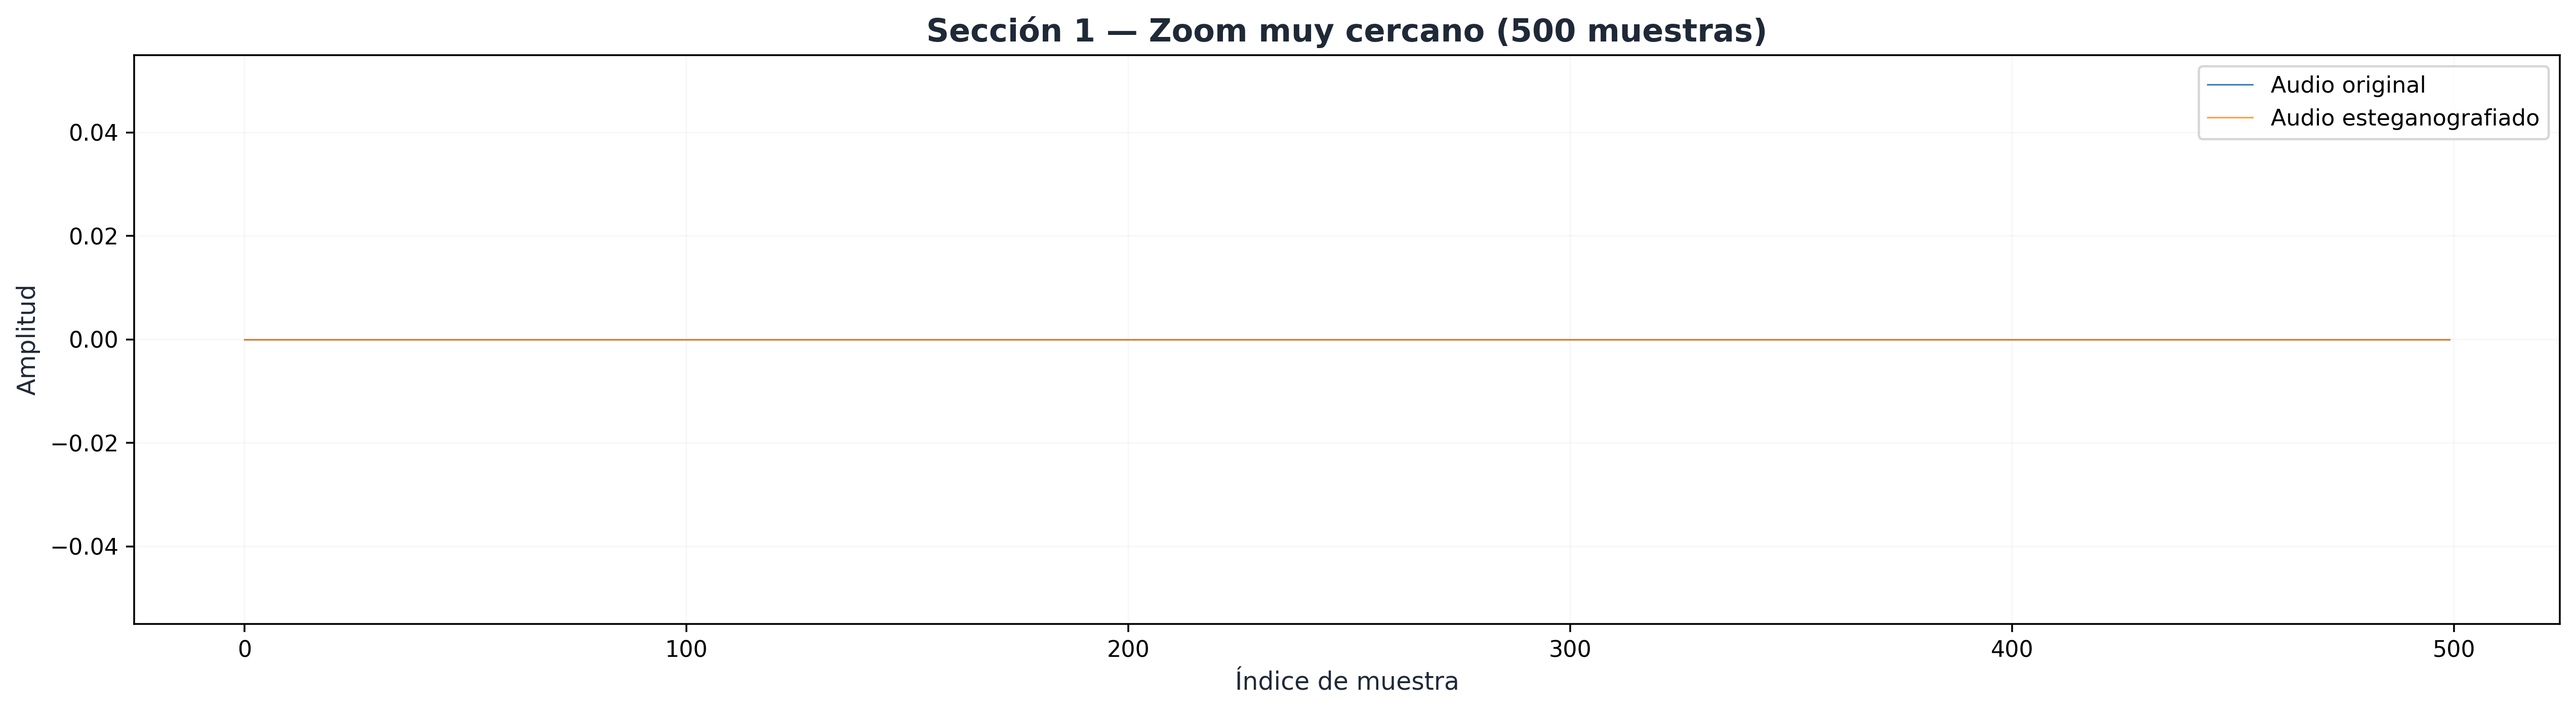
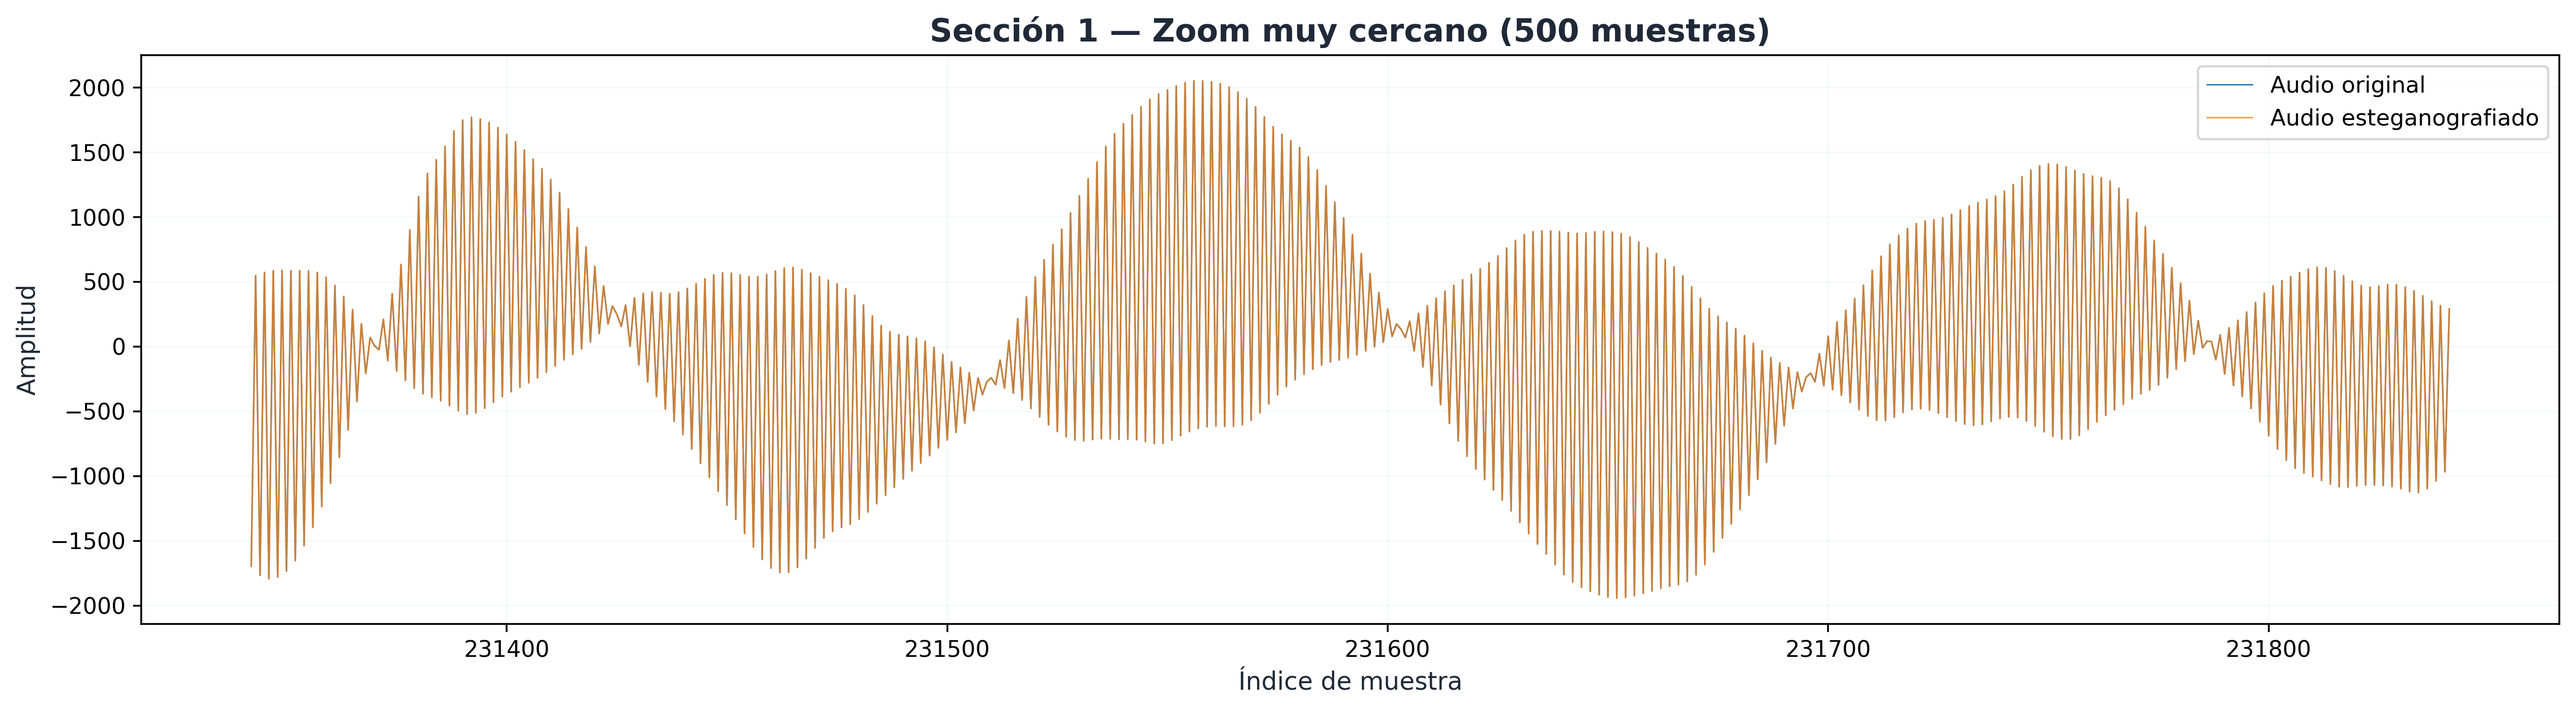
feat: mejorar análisis y visualización de datos en generar_analisis_completo.py

diff --git a/scripts/generar_analisis_completo.py b/scripts/generar_analisis_completo.py
@@ -341,10 +341,12 @@ def analisis_mse_covarianza(datos):
     axes[1].set_title("Error Cuadrático Medio (MSE)", **FONT_TITLE)
     axes[1].set_ylabel("MSE", **FONT_LABEL)
     axes[1].grid(axis="y", alpha=0.2, color=COLORES["grid"])
+    
+    offset_y = max(mse * 0.05, 1e-6)
     for bar, val in zip(bars, vals):
         axes[1].text(
             bar.get_x() + bar.get_width() / 2,
-            bar.get_height() + 0.001,
+            bar.get_height() + offset_y,
             f"{val:.6f}",
             ha="center",
             va="bottom",
@@ -352,6 +354,8 @@ def analisis_mse_covarianza(datos):
             fontsize=11,
             fontweight="bold",
         )
+    # Ajustar límite superior para que el texto no se corte
+    axes[1].set_ylim(0, max(mse * 1.2, 1e-5))
 
     # Anotar PSNR
     axes[1].text(
@@ -935,11 +939,11 @@ def comparar_estegoaudios_claves(datos):
 
     diff_full = np.abs(diff)
     idx_mod = np.where(diff_full > 0)[0]
-    axes[2].scatter(idx_mod[:5000], diff_full[idx_mod[:5000]], s=4, c=COLORES["alerta"],
-                    alpha=0.5, label=f"{n_distintos} muestras distintas en total")
-    axes[2].set_title("Panel 3 — Posiciones donde los estegoaudios difieren", **FONT_TITLE)
+    axes[2].hist(idx_mod, bins=200, color=COLORES["alerta"], alpha=0.7,
+                 label=f"{n_distintos} muestras distintas en total")
+    axes[2].set_title("Panel 3 — Distribución espacial de las diferencias (Histograma)", **FONT_TITLE)
     axes[2].set_xlabel("Índice de muestra", **FONT_LABEL)
-    axes[2].set_ylabel("|Δ|", **FONT_LABEL)
+    axes[2].set_ylabel("Frecuencia de diferencias", **FONT_LABEL)
     axes[2].legend(fontsize=9)
     axes[2].grid(alpha=0.15, color=COLORES["grid"])
 
@@ -973,9 +977,19 @@ def generar_zooms_seccion_1(datos):
         ("1_zoom_completo.png", len(orig), "Señal completa"),
     ]
 
+    # Encontrar el inicio de la señal activa para que el zoom sea significativo
+    umbral = np.max(np.abs(orig)) * 0.05
+    idx_activos = np.where(np.abs(orig) > umbral)[0]
+    inicio_activo = idx_activos[0] if len(idx_activos) > 0 else 0
+
     for nombre, n_muestras, titulo in configuraciones:
-        n = min(len(orig), n_muestras)
-        x = np.arange(n)
+        if "completo" in nombre:
+            start_idx = 0
+        else:
+            start_idx = inicio_activo
+
+        n = min(len(orig) - start_idx, n_muestras)
+        x = np.arange(start_idx, start_idx + n)
 
         fig, ax = plt.subplots(figsize=(16, 4.5), facecolor="white")
         ax.set_facecolor("white")
@@ -983,7 +997,7 @@ def generar_zooms_seccion_1(datos):
         linewidth = 0.7 if n <= 10_000 else 0.2
         ax.plot(
             x,
-            orig[:n],
+            orig[start_idx:start_idx+n],
             color=COLORES["original"],
             linewidth=linewidth,
             alpha=0.9,
@@ -991,7 +1005,7 @@ def generar_zooms_seccion_1(datos):
         )
         ax.plot(
             x,
-            mod[:n],
+            mod[start_idx:start_idx+n],
             color=COLORES["modificado"],
             linewidth=linewidth,
             alpha=0.75,
@@ -1606,16 +1620,17 @@ def analisis_histogramas_audio(datos):
     ax2.set_facecolor("white")
     barras = ax2.bar([-1, 0, 1], [cnt_m1, cnt_0, cnt_p1],
                      color=[COLORES["alerta"], COLORES["original"], COLORES["exito"]],
-                     edgecolor="#5a5a5a", width=0.6)
+                     edgecolor="#5a5a5a", width=0.6, log=True)
     ax2.set_title("Histograma del Error de Cuantización LSB  ε[n] = y[n] − x[n]", **FONT_TITLE)
     ax2.set_xlabel("Valor de ε[n]", **FONT_LABEL)
-    ax2.set_ylabel("Frecuencia (conteo de muestras)", **FONT_LABEL)
+    ax2.set_ylabel("Frecuencia (escala logarítmica)", **FONT_LABEL)
     ax2.set_xticks([-1, 0, 1])
-    ax2.yaxis.set_major_locator(plt.MaxNLocator(integer=True))
     ax2.grid(axis="y", alpha=0.2, color=COLORES["grid"])
     for bar, val in zip(barras, [cnt_m1, cnt_0, cnt_p1]):
-        ax2.text(bar.get_x() + bar.get_width()/2, bar.get_height() + 500,
-                 f"{val:,}", ha="center", va="bottom", fontsize=11, fontweight="bold")
+        if val > 0:
+            ax2.text(bar.get_x() + bar.get_width()/2, bar.get_height() * 1.3,
+                     f"{val:,}", ha="center", va="bottom", fontsize=11, fontweight="bold")
+    ax2.set_ylim(bottom=1, top=max(cnt_m1, cnt_0, cnt_p1) * 5)
     fig2.tight_layout()
     _guardar(fig2, "4_error_lsb.png")
 
